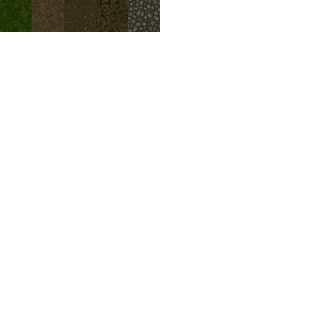
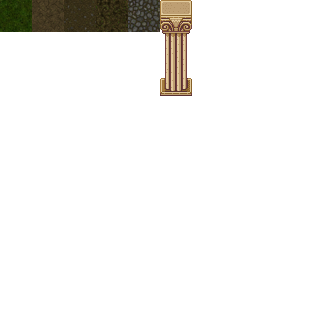
Added colisions handling

Changed region(s): [[0.5, 0.0, 0.625, 0.3125]]

diff --git a/Game1/Game1/Layer.cs b/Game1/Game1/Layer.cs
@@ -27,12 +27,15 @@ namespace TheGameProject
         [XmlElement("TileMap")]
         public TileMap Tile;
         public Image Image;
+        public string SolidTiles;
         private List<Tile> tiles;
+        private string state;
 
         public Layer()
         {
             Image = new Image();
             tiles = new List<Tile>();
+            SolidTiles = string.Empty;
         }
 
         public void LoadContent(Vector2 tileDimensions)
@@ -50,15 +53,24 @@ namespace TheGameProject
                     if (s != string.Empty)
                     {
                         position.X += tileDimensions.X;
-                        tiles.Add(new Tile());
+                        if (!s.Contains("x"))
+                        {
+                            state = "Passive";
+                            tiles.Add(new Tile());
 
-                        string str = s.Replace("[", string.Empty);
-                        int value1 = int.Parse(str.Substring(0, str.IndexOf(':')));
-                        int value2 = int.Parse(str.Substring(str.IndexOf(':') + 1));
+                            string str = s.Replace("[", string.Empty);
+                            int value1 = int.Parse(str.Substring(0, str.IndexOf(':')));
+                            int value2 = int.Parse(str.Substring(str.IndexOf(':') + 1));
 
-                        tiles[tiles.Count - 1].LoadContent(position, new Rectangle(
-                                value1 * (int) tileDimensions.X, value2 * (int) tileDimensions.Y, 
-                                (int) tileDimensions.X, (int) tileDimensions.Y));
+                            if (SolidTiles.Contains("[" + value1.ToString() + ":" + value2.ToString() + "]"))
+                            {
+                                state = "Solid";
+                            }
+
+                            tiles[tiles.Count - 1].LoadContent(position, new Rectangle(
+                                value1 * (int) tileDimensions.X, value2 * (int) tileDimensions.Y,
+                                (int) tileDimensions.X, (int) tileDimensions.Y), state);
+                        }
                     }
                 }
             }
@@ -69,9 +81,12 @@ namespace TheGameProject
             Image.UnloadContent();
         }
 
-        public void Update(GameTime gameTime)
+        public void Update(GameTime gameTime, ref Player player)
         {
-
+            foreach (Tile tile in tiles)
+            {
+                tile.Update(gameTime, ref player);
+            }
         }
 
         public void Draw(SpriteBatch spriteBatch)

diff --git a/Game1/Game1/Tile.cs b/Game1/Game1/Tile.cs
@@ -13,6 +13,7 @@ namespace TheGameProject
     {
         private Vector2 position;
         private Rectangle sourceRect;
+        private string state;
 
         public Rectangle SourceRect
         {
@@ -24,10 +25,11 @@ namespace TheGameProject
             get { return position; }
         }
 
-        public void LoadContent(Vector2 position, Rectangle sourceRect)
+        public void LoadContent(Vector2 position, Rectangle sourceRect, string state)
         {
             this.position = position;
             this.sourceRect = sourceRect;
+            this.state = state;
         }
 
         public void UnloadContent()
@@ -35,14 +37,36 @@ namespace TheGameProject
 
         }
 
-        public void Update(GameTime gameTime)
+        public void Update(GameTime gameTime, ref Player player)
         {
+            if (state == "Solid")
+            {
+                Rectangle tileRect = new Rectangle((int) Position.X, (int) Position.Y, sourceRect.Width, sourceRect.Height);
+                Rectangle playerRect = new Rectangle((int)player.Image.Position.X, (int)player.Image.Position.Y, 
+                    (int) player.Image.SourceRect.Width, (int) player.Image.SourceRect.Height);
 
-        }
+                if (playerRect.Intersects(tileRect))
+                {
+                    if (player.Velocity.X < 0)
+                    {
+                        player.Image.Position.X = tileRect.Right;
+                    }
+                    else if (player.Velocity.X > 0)
 
-        public void Draw(SpriteBatch spriteBatch)
-        {
-
+                    {
+                        player.Image.Position.X = tileRect.Left - player.Image.SourceRect.Width;
+                    }
+                    else if (player.Velocity.Y < 0)
+                    {
+                        player.Image.Position.Y = tileRect.Bottom;
+                    }
+                    else
+                    {
+                        player.Image.Position.Y = tileRect.Top - player.Image.SourceRect.Height;
+                    }
+                    player.Velocity = Vector2.Zero;
+                }
+            }
         }
     }
 }

diff --git a/Game1/Game1/Map.cs b/Game1/Game1/Map.cs
@@ -39,11 +39,11 @@ namespace TheGameProject
             }
         }
 
-        public void Update(GameTime gameTime)
+        public void Update(GameTime gameTime, ref Player player)
         {
             foreach (Layer l in Layer)
             {
-                l.Update(gameTime);
+                l.Update(gameTime, ref player);
             }
         }
 

diff --git a/Game1/Game1/GameplayScreen.cs b/Game1/Game1/GameplayScreen.cs
@@ -36,7 +36,7 @@ namespace TheGameProject
         {
             base.Update(gameTime);
             player.Update(gameTime);
-            map.Update(gameTime);
+            map.Update(gameTime, ref player);
         }
 
         public override void Draw(SpriteBatch spriteBatch)
